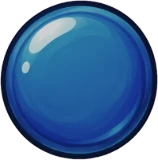
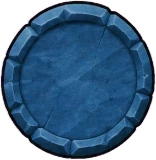
Boutons en pierre colorée, sans reflet
Choix du propriétaire du 7 novembre après son essai sur iPhone (« trop de
reflet ») : proposition B « Pierre colorée ». Les boutons vert, bleu et
rouge, la croix, le bouton retour, la coche, la barre d'XP et la médaille
du niveau sont repeints en pierre taillée teintée, comme le cadre des
fenêtres. Les anciennes pièces brillantes restent dans leurs planches
sources mais ne sont plus découpées (option skip). Flèche retour agrandie.

diff --git a/src/display/ui-kit.css b/src/display/ui-kit.css
@@ -112,9 +112,9 @@ button:not(.resource, .meadow-nav, .meadow-tool, .kitchen-object, .breeding-row,
   background: url('/assets/ui/kit/close.webp') center / contain no-repeat !important;
 }
 #panel-back {
-  width: 50px; min-width: 50px; height: 50px; min-height: 50px; padding: 0 0 3px !important;
+  width: 50px; min-width: 50px; height: 50px; min-height: 50px; padding: 0 3px 7px 0 !important;
   --kit-skin: var(--kit-blue); --kit-edge: var(--kit-edge-blue);
-  font-size: 30px; line-height: 1;
+  font-size: 50px !important; line-height: 1; -webkit-text-stroke: 4px var(--kit-edge-blue) !important; font-family: var(--kit-font);
 }
 #panel-back::before { border-image: none !important; border: 0 !important; background: url('/assets/ui/kit/round-blue.webp') center / contain no-repeat !important; }
 
